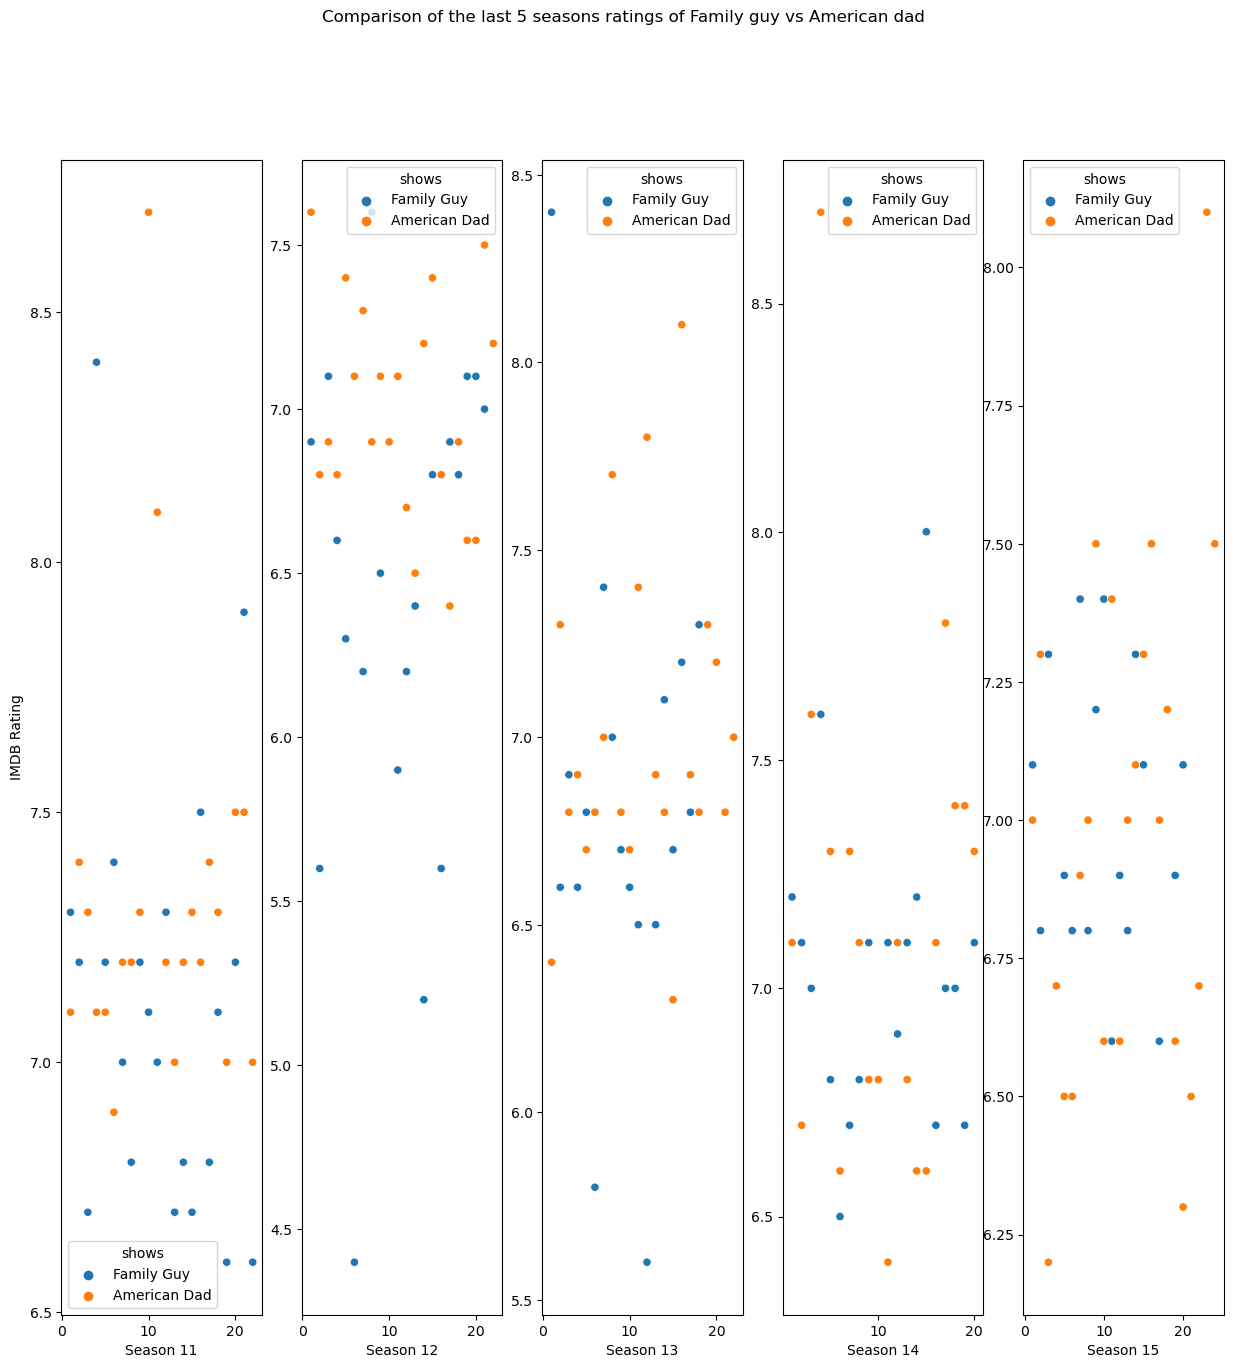
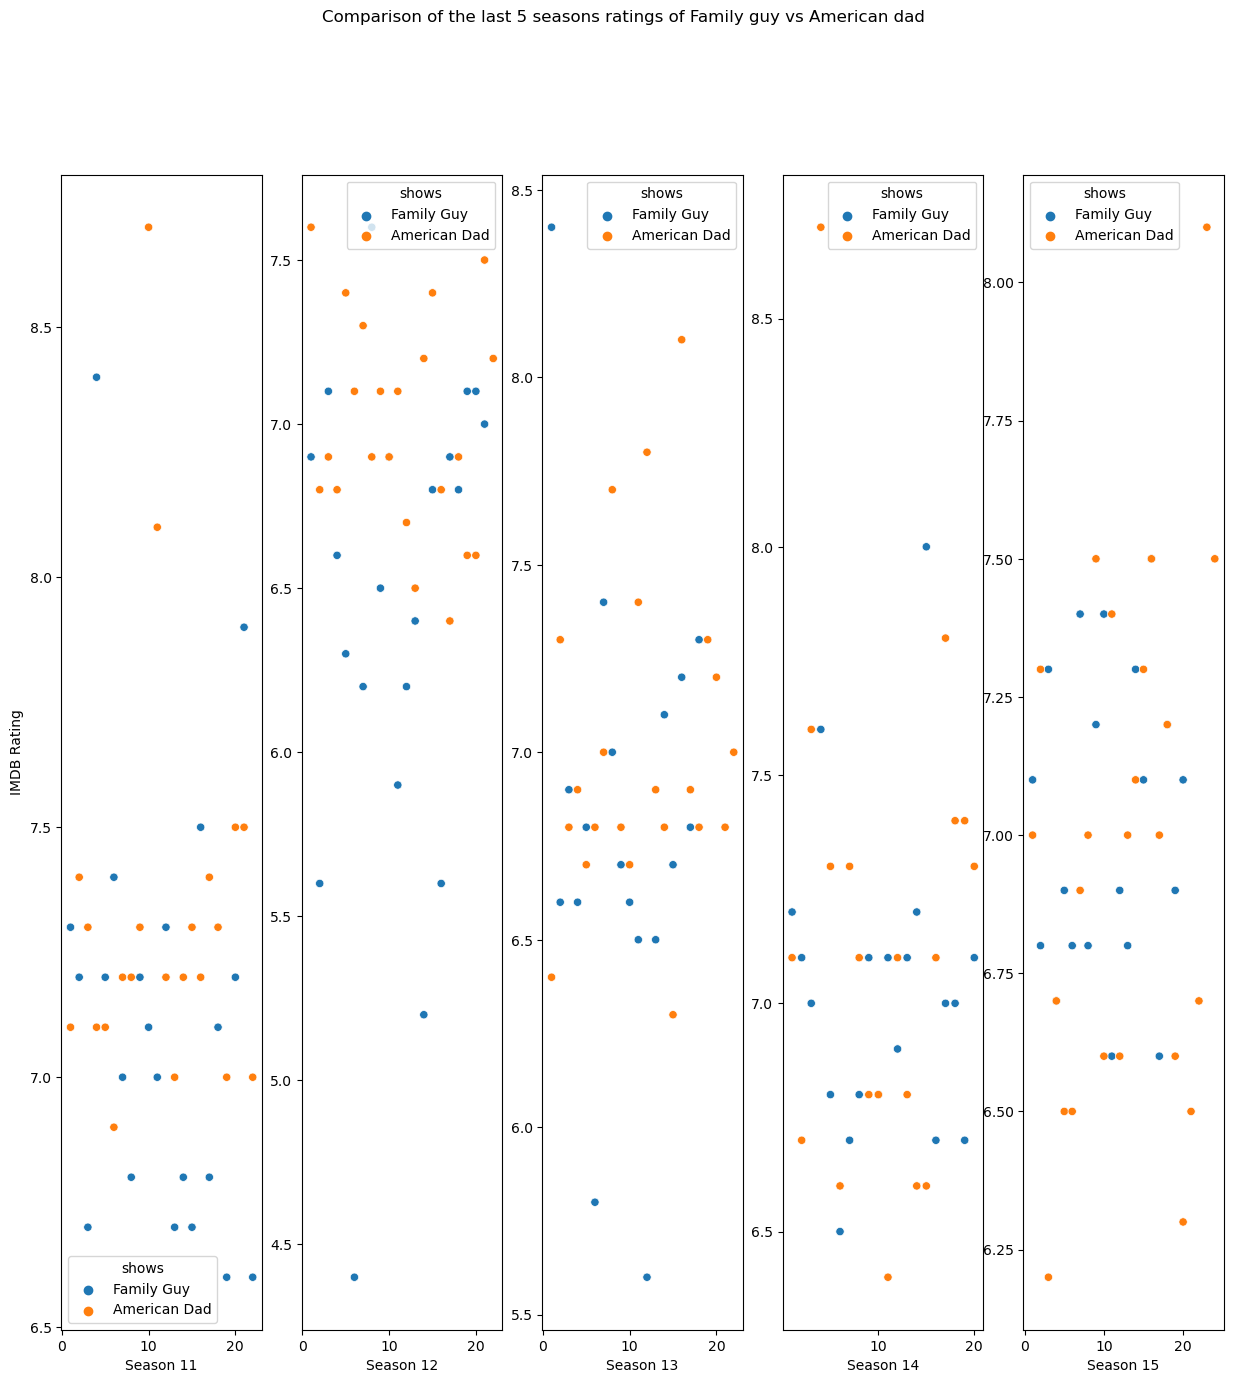
Plot formatting

diff --git a/graphs.py b/graphs.py
@@ -54,7 +54,7 @@ class Graphs:
                  + " ratings of {} v" 
                  + "s {}").format(string1.capitalize(),
                                   string2.capitalize(), loc='left')
-        fig.suptitle(title, pad=0.2)
+        fig.suptitle(title, verticalalignment='bottom')
         for i in range(seasons-5, seasons):
             concatenated1 = concat[concat['season'] == i + 1]
             print(concatenated1)
